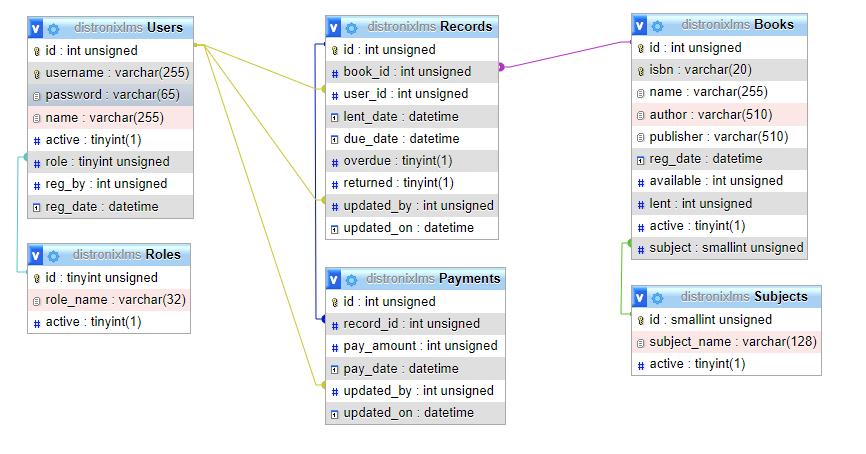
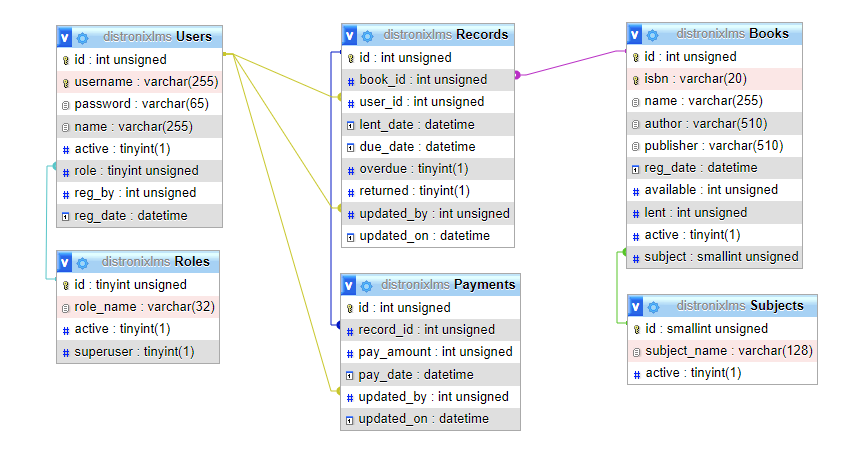
Added Superuser Attribute to Role Schema and Model

diff --git a/app.js b/app.js
@@ -1,7 +1,7 @@
 const express = require('express');
 const bodyParser = require('body-parser');
 
-const dbConfig = require('./configs/database');
+const db = require('./configs/database');
 
 const usersRouter = require('./routes/users');
 const booksRouter = require('./routes/books');
@@ -9,7 +9,7 @@ const recordsRouter = require('./routes/records');
 const paymentsRouter = require('./routes/payments');
 const statisticsRouter = require('./routes/statistics');
 
-dbConfig.authenticate().then(() => {
+db.authenticate().then(() => {
         console.log('Database connected...');
     }).catch(err => {
         console.log('Error: ' + err);

diff --git a/controllers/users.js b/controllers/users.js
@@ -4,8 +4,10 @@
 // router.put('/:id', usersController.updateUserById);
 // router.delete('/:id', usersController.deleteUserById);
 
-exports.getAllUsers = async (req, res) => {
+const db = require('./configs/database');
 
+exports.getAllUsers = async (req, res) => {
+    
 };
 
 exports.addNewUser = async (req, res) => {

diff --git a/models/roles.js b/models/roles.js
@@ -15,6 +15,11 @@ module.exports = function(sequelize, DataTypes) {
       type: DataTypes.BOOLEAN,
       allowNull: false,
       defaultValue: 0
+    },
+    superuser: {
+      type: DataTypes.BOOLEAN,
+      allowNull: false,
+      defaultValue: 0
     }
   }, {
     sequelize,

diff --git a/models/init-models.js b/models/init-models.js
@@ -1,4 +1,5 @@
 const DataTypes = require("sequelize").DataTypes;
+
 const _Books = require("./books");
 const _Payments = require("./payments");
 const _Records = require("./records");
